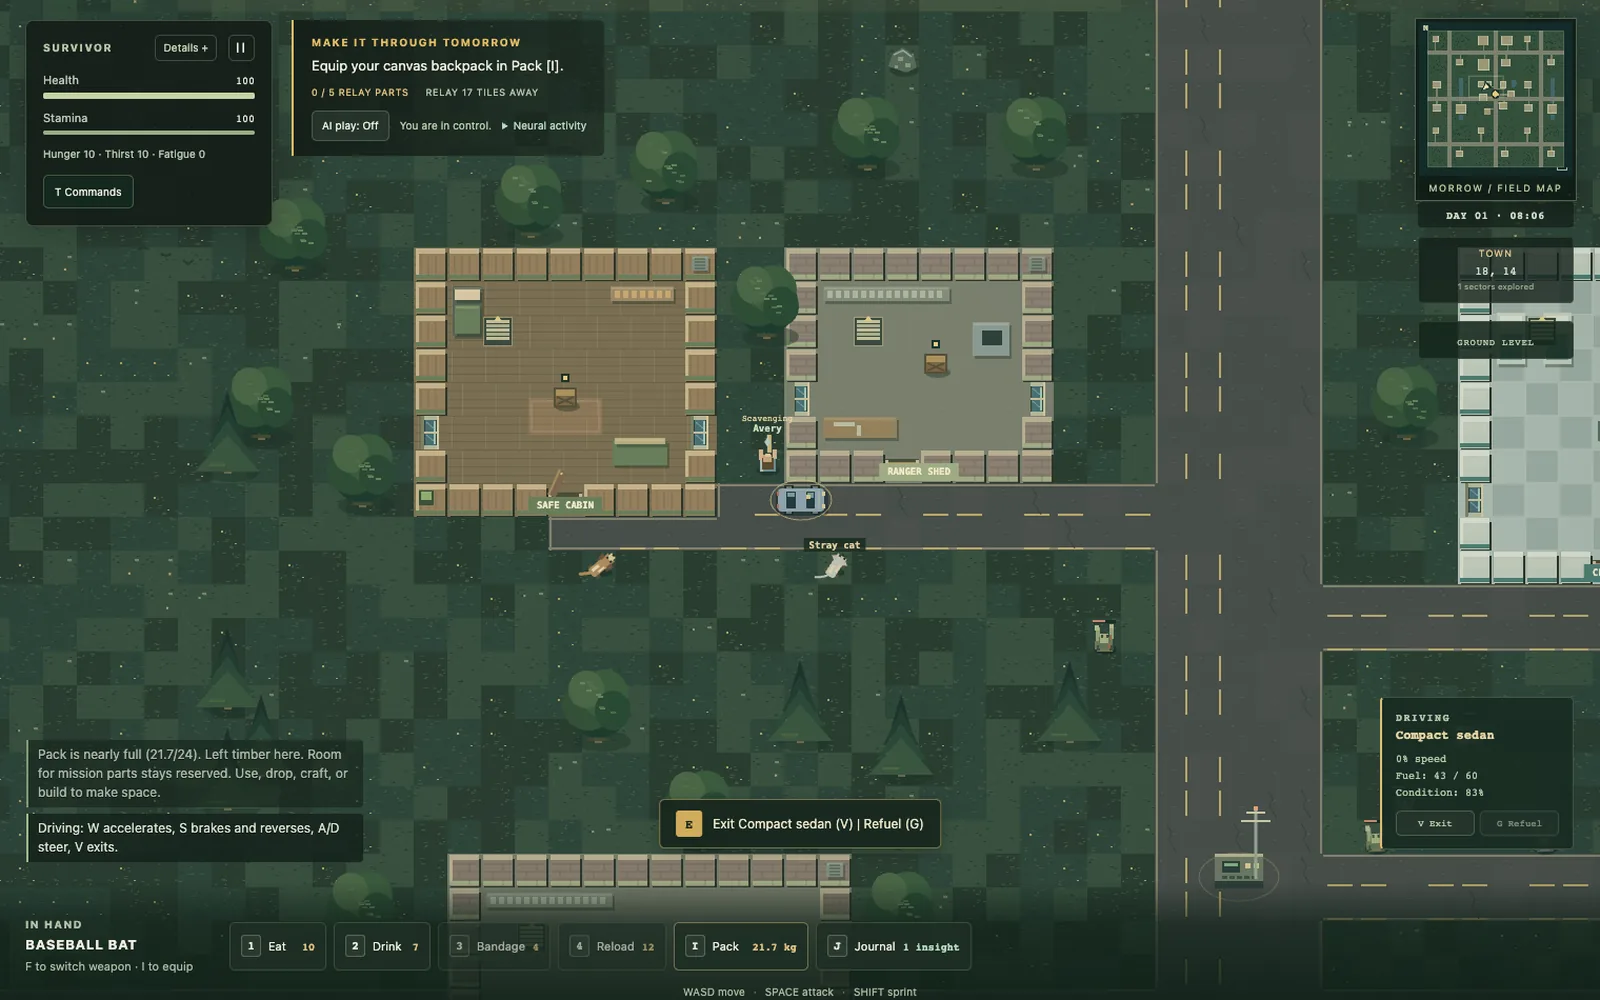
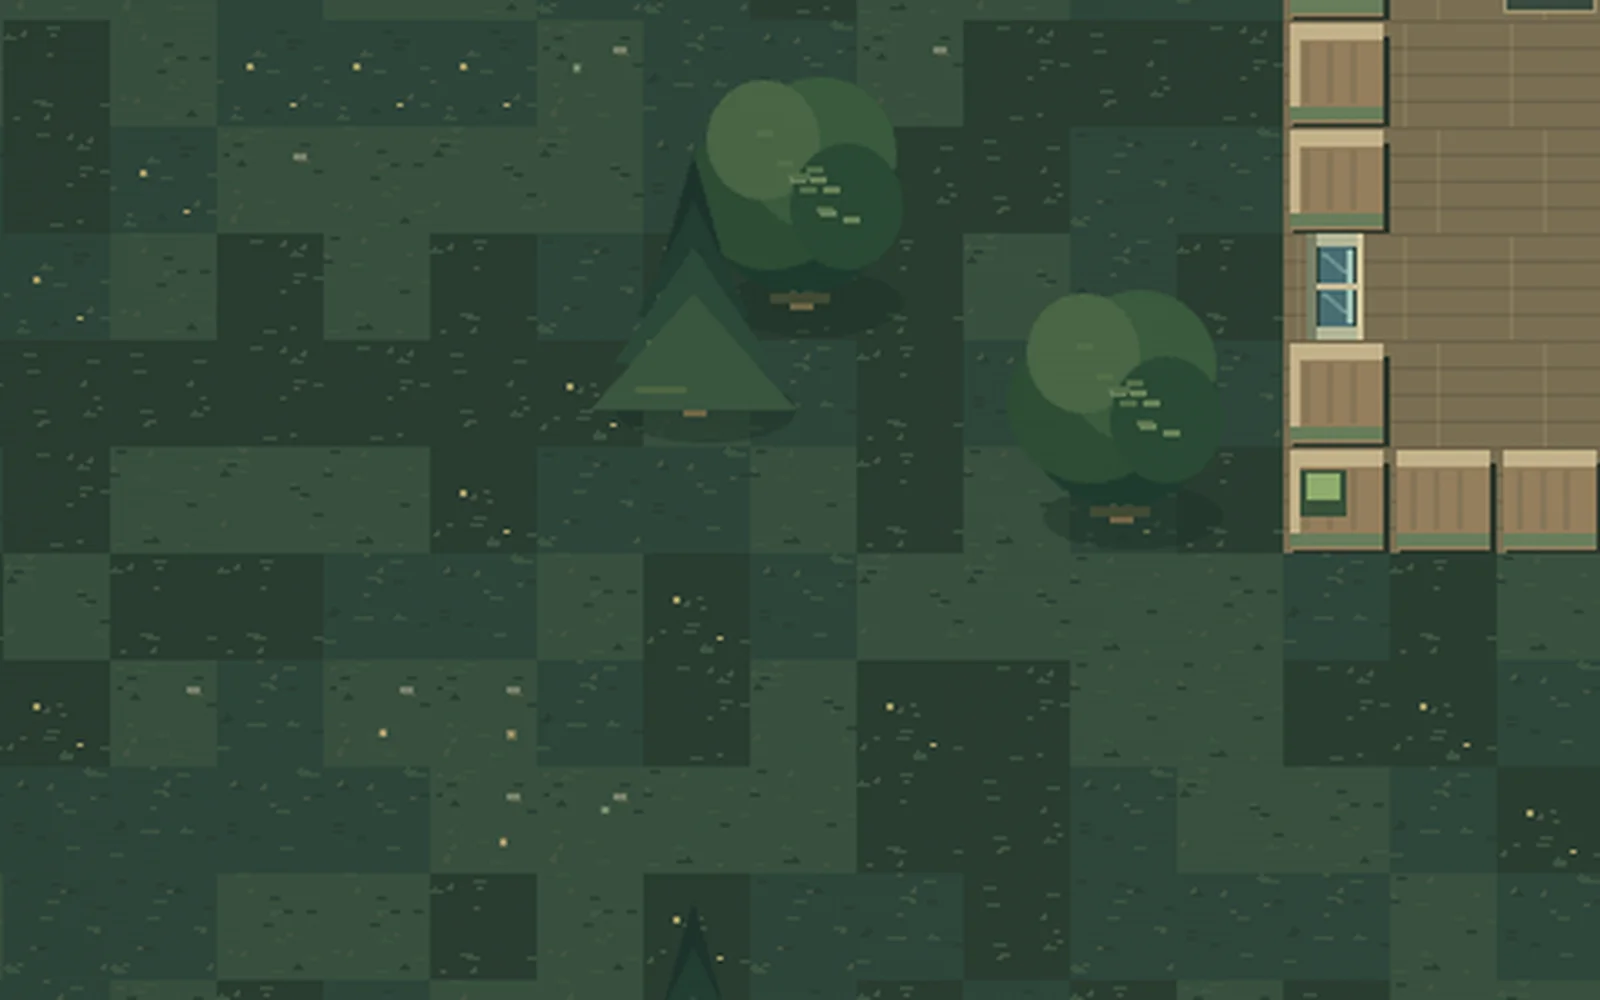
Calm After the Sirens card art and wire Fibers of Earth preview
Replace the busy HUD gameplay preview with a quiet forest crop that has no interface chrome. Add Fibers of Earth atlas poster previews so the featured card uses a real project image.

diff --git a/src/artwork.ts b/src/artwork.ts
@@ -1,7 +1,7 @@
 const shell = (body: string, bg: string) => `<svg viewBox="0 0 640 390" role="img" aria-hidden="true" xmlns="http://www.w3.org/2000/svg"><rect width="640" height="390" fill="${bg}"/>${body}</svg>`;
 let artworkSequence = 0;
 
-const gameCaptures: Record<string,string> = {siegeworks:'Workers and a siege tower approach the walled fortress at Masada',tinylaps:'Dense streets, traffic and miniature buildings in TinyLaps',fins:'An illustrated Fins aquarium with coral, textured aquatic plants, and fish',haywire:'A detailed miniature hay field with a windmill and farm scenery',sirens:'After the Sirens gameplay: a top-down survivor among houses, roads, cars, and undead in Morrow'};
+const gameCaptures: Record<string,string> = {siegeworks:'Workers and a siege tower approach the walled fortress at Masada',tinylaps:'Dense streets, traffic and miniature buildings in TinyLaps',fins:'An illustrated Fins aquarium with coral, textured aquatic plants, and fish',haywire:'A detailed miniature hay field with a windmill and farm scenery',sirens:'Quiet woods and a cabin edge in After the Sirens, with no interface overlay',fibers:'Fibers of Earth atlas: a globe journey map for Merino wool from grower to mill'};
 export function artwork(kind: string): string {
   const captureName = ({tinylaps:'tinylaps-streets',fins:'fins-aquarium-v2'} as Record<string,string>)[kind] ?? kind;
   if (gameCaptures[kind]) return `<img class="game-capture" src="/game-previews/${captureName}-1600.webp" srcset="/game-previews/${captureName}-800.webp 800w, /game-previews/${captureName}-1600.webp 1600w" sizes="(max-width:650px) 92vw, (max-width:950px) 45vw, 520px" width="1600" height="1000" loading="lazy" decoding="async" alt="${gameCaptures[kind]}"/>`;
